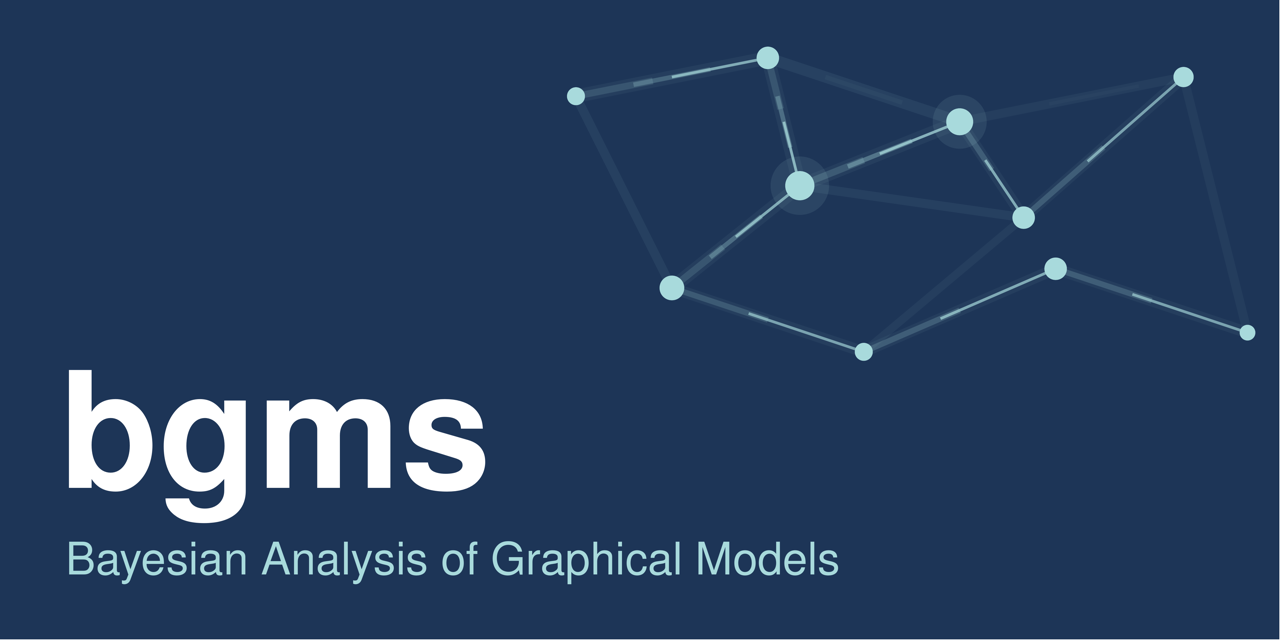
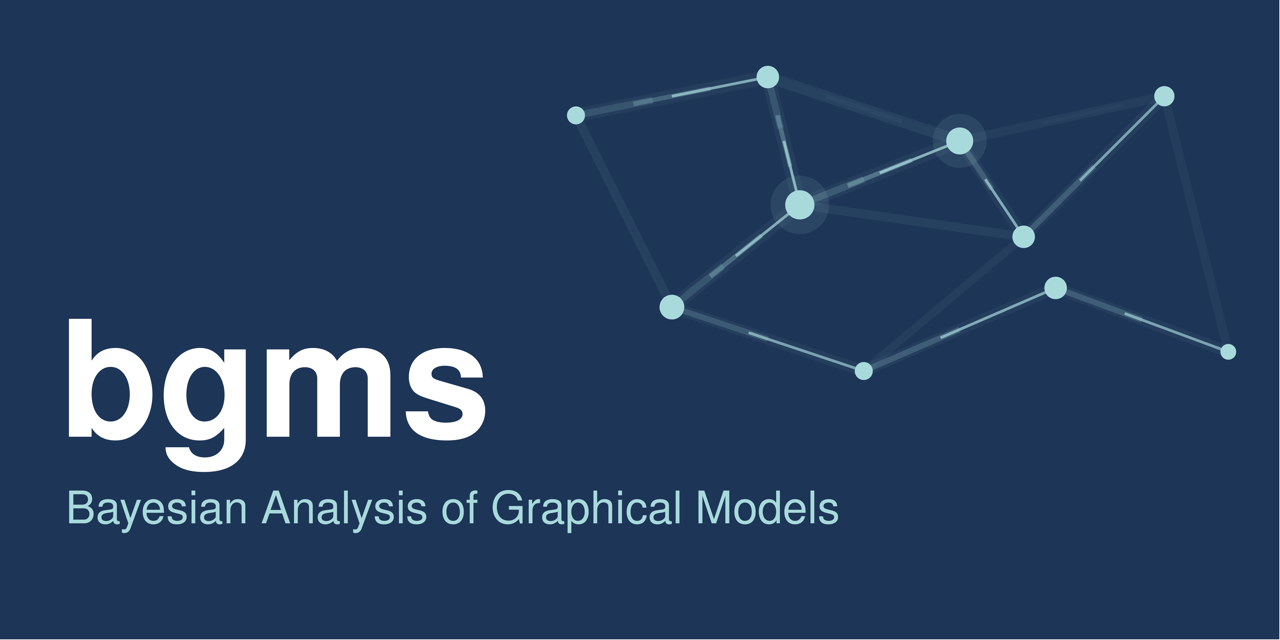
docs: fix social preview cropping

diff --git a/inst/social-preview/bgms-social-preview.tex b/inst/social-preview/bgms-social-preview.tex
@@ -18,26 +18,26 @@
 % here it occupies y=2.5..7.5 on 20x10.
 % =================================================================
 
-% --- Title (bottom-left, scaled up) ---
+% --- Title (bottom-left, within safe zone) ---
 \node[anchor=west, text=white, font=\fontfamily{phv}\selectfont\bfseries\fontsize{72}{72}\selectfont]
-  at (0.8, 3.0) {bgms};
+  at (0.8, 3.8) {bgms};
 \node[anchor=west, text=teal, font=\fontfamily{phv}\selectfont\fontsize{20}{20}\selectfont]
-  at (0.9, 1.2) {Bayesian Analysis of Graphical Models};
+  at (0.9, 2.0) {Bayesian Analysis of Graphical Models};
 
 % =================================================================
 % NETWORK (top-right, scaled up to fill)
 % =================================================================
 
-\coordinate (n1) at (9.0, 8.5);
-\coordinate (n2) at (12.0, 9.1);
-\coordinate (n3) at (15.0, 8.1);
-\coordinate (n4) at (18.5, 8.8);
-\coordinate (n5) at (10.5, 5.5);
-\coordinate (n6) at (13.5, 4.5);
-\coordinate (n7) at (16.5, 5.8);
-\coordinate (n8) at (19.5, 4.8);
-\coordinate (n9) at (12.5, 7.1);
-\coordinate (n10) at (16.0, 6.6);
+\coordinate (n1) at (9.0, 8.2);
+\coordinate (n2) at (12.0, 8.8);
+\coordinate (n3) at (15.0, 7.8);
+\coordinate (n4) at (18.2, 8.5);
+\coordinate (n5) at (10.5, 5.2);
+\coordinate (n6) at (13.5, 4.2);
+\coordinate (n7) at (16.5, 5.5);
+\coordinate (n8) at (19.2, 4.5);
+\coordinate (n9) at (12.5, 6.8);
+\coordinate (n10) at (16.0, 6.3);
 
 % --- SURVIVING EDGES: fuzzy band -> crisp line ---
 
